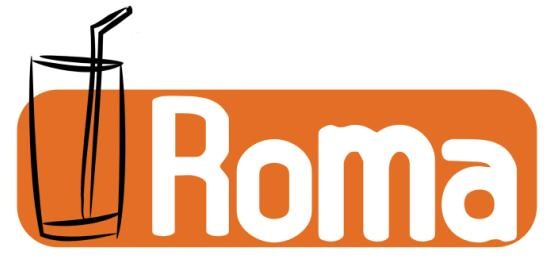
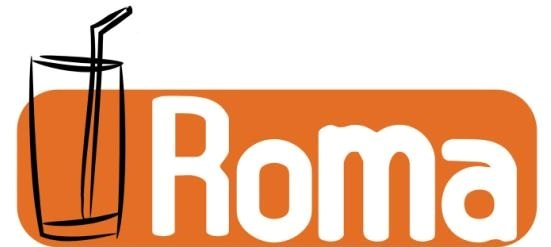
conclusao do cadastro de pessoas

diff --git a/src/main/webapp/resources/restrict/css/ceres.css b/src/main/webapp/resources/restrict/css/ceres.css
@@ -12,8 +12,9 @@ body {
 }
 
 #topo{
-   width:558px;
-   height:279px;
+   
+   width:549px;
+   height:239px;
    margin:0;
    padding:0;
    background-image: url(../images/topo.jpg); 

diff --git a/src/main/java/br/com/ceres/model/entities/EpessoaFisica.java b/src/main/java/br/com/ceres/model/entities/EpessoaFisica.java
@@ -1,0 +1,102 @@
+package br.com.ceres.model.entities;
+
+import java.io.Serializable;
+import java.util.Date;
+import javax.persistence.Column;
+import javax.persistence.Entity;
+import javax.persistence.Id;
+import javax.persistence.Table;
+import javax.persistence.Temporal;
+import javax.persistence.TemporalType;
+import org.hibernate.annotations.ForeignKey;
+
+@Entity
+@Table(name = "pes_pessoafisica")
+@ForeignKey(name = "id_pessoa")
+public class EpessoaFisica implements Serializable{
+        
+        @Id
+        @Column(name = "id_pesoa", nullable = false)
+	private Integer id;
+    
+        @Column(name = "desc_nome")
+	private String nome;
+
+	@Column(name = "desc_sobrenome")
+	private String sobrenome;
+
+	@Column(name = "desc_sexo")
+	private String sexo;
+
+	@Column(name = "numr_cpf")
+	private String cpf;
+
+	@Column(name = "numr_rg")
+	private String rg;
+
+	@Column(name = "desc_orgaoemissor")
+	private String orgaoEmissor;
+
+        @Column(name = "data_nascimento")
+        @Temporal(TemporalType.TIMESTAMP)
+	private Date dataNascimneto;
+
+    public String getNome() {
+        return nome;
+    }
+
+    public void setNome(String nome) {
+        this.nome = nome;
+    }
+
+    public String getSobrenome() {
+        return sobrenome;
+    }
+
+    public void setSobrenome(String sobrenome) {
+        this.sobrenome = sobrenome;
+    }
+
+    public String getSexo() {
+        return sexo;
+    }
+
+    public void setSexo(String sexo) {
+        this.sexo = sexo;
+    }
+
+    public String getCpf() {
+        return cpf;
+    }
+
+    public void setCpf(String cpf) {
+        this.cpf = cpf;
+    }
+
+    public String getRg() {
+        return rg;
+    }
+
+    public void setRg(String rg) {
+        this.rg = rg;
+    }
+
+    public String getOrgaoEmissor() {
+        return orgaoEmissor;
+    }
+
+    public void setOrgaoEmissor(String orgaoEmissor) {
+        this.orgaoEmissor = orgaoEmissor;
+    }
+
+    public Date getDataNascimneto() {
+        return dataNascimneto;
+    }
+
+    public void setDataNascimneto(Date dataNascimneto) {
+        this.dataNascimneto = dataNascimneto;
+    }
+    
+    
+    
+}

diff --git a/src/main/java/br/com/ceres/controller/MbPessoa.java b/src/main/java/br/com/ceres/controller/MbPessoa.java
@@ -2,18 +2,18 @@ package br.com.ceres.controller;
 
 import br.com.ceres.model.dao.HibernateDAO;
 import br.com.ceres.model.dao.InterfaceDAO;
-import br.com.ceres.model.entities.Epadrao;
 import br.com.ceres.model.entities.Epessoa;
 import br.com.ceres.util.FacesContextUtil;
+import java.io.Serializable;
 import java.util.List;
 import javax.faces.application.FacesMessage;
 import javax.faces.bean.ManagedBean;
-import javax.faces.bean.SessionScoped;
+import javax.faces.bean.RequestScoped;
 import javax.faces.context.FacesContext;
 
 @ManagedBean(name = "mbPessoa")
-@SessionScoped
-public class MbPessoa extends Epadrao {
+@RequestScoped
+public class MbPessoa implements Serializable {
 
     private static final long serialVersionUID = 1L;
     

diff --git a/src/main/java/br/com/ceres/model/entities/Epessoa.java b/src/main/java/br/com/ceres/model/entities/Epessoa.java
@@ -5,10 +5,13 @@ import javax.persistence.Column;
 import javax.persistence.Entity;
 import javax.persistence.GeneratedValue;
 import javax.persistence.Id;
+import javax.persistence.Inheritance;
+import javax.persistence.InheritanceType;
 import javax.persistence.Table;
 
 @Entity
 @Table(name = "pes_pessoas")
+@Inheritance(strategy = InheritanceType.JOINED)
 public class Epessoa implements Serializable{
     
     private static final long serialVersionUID = 1L;
